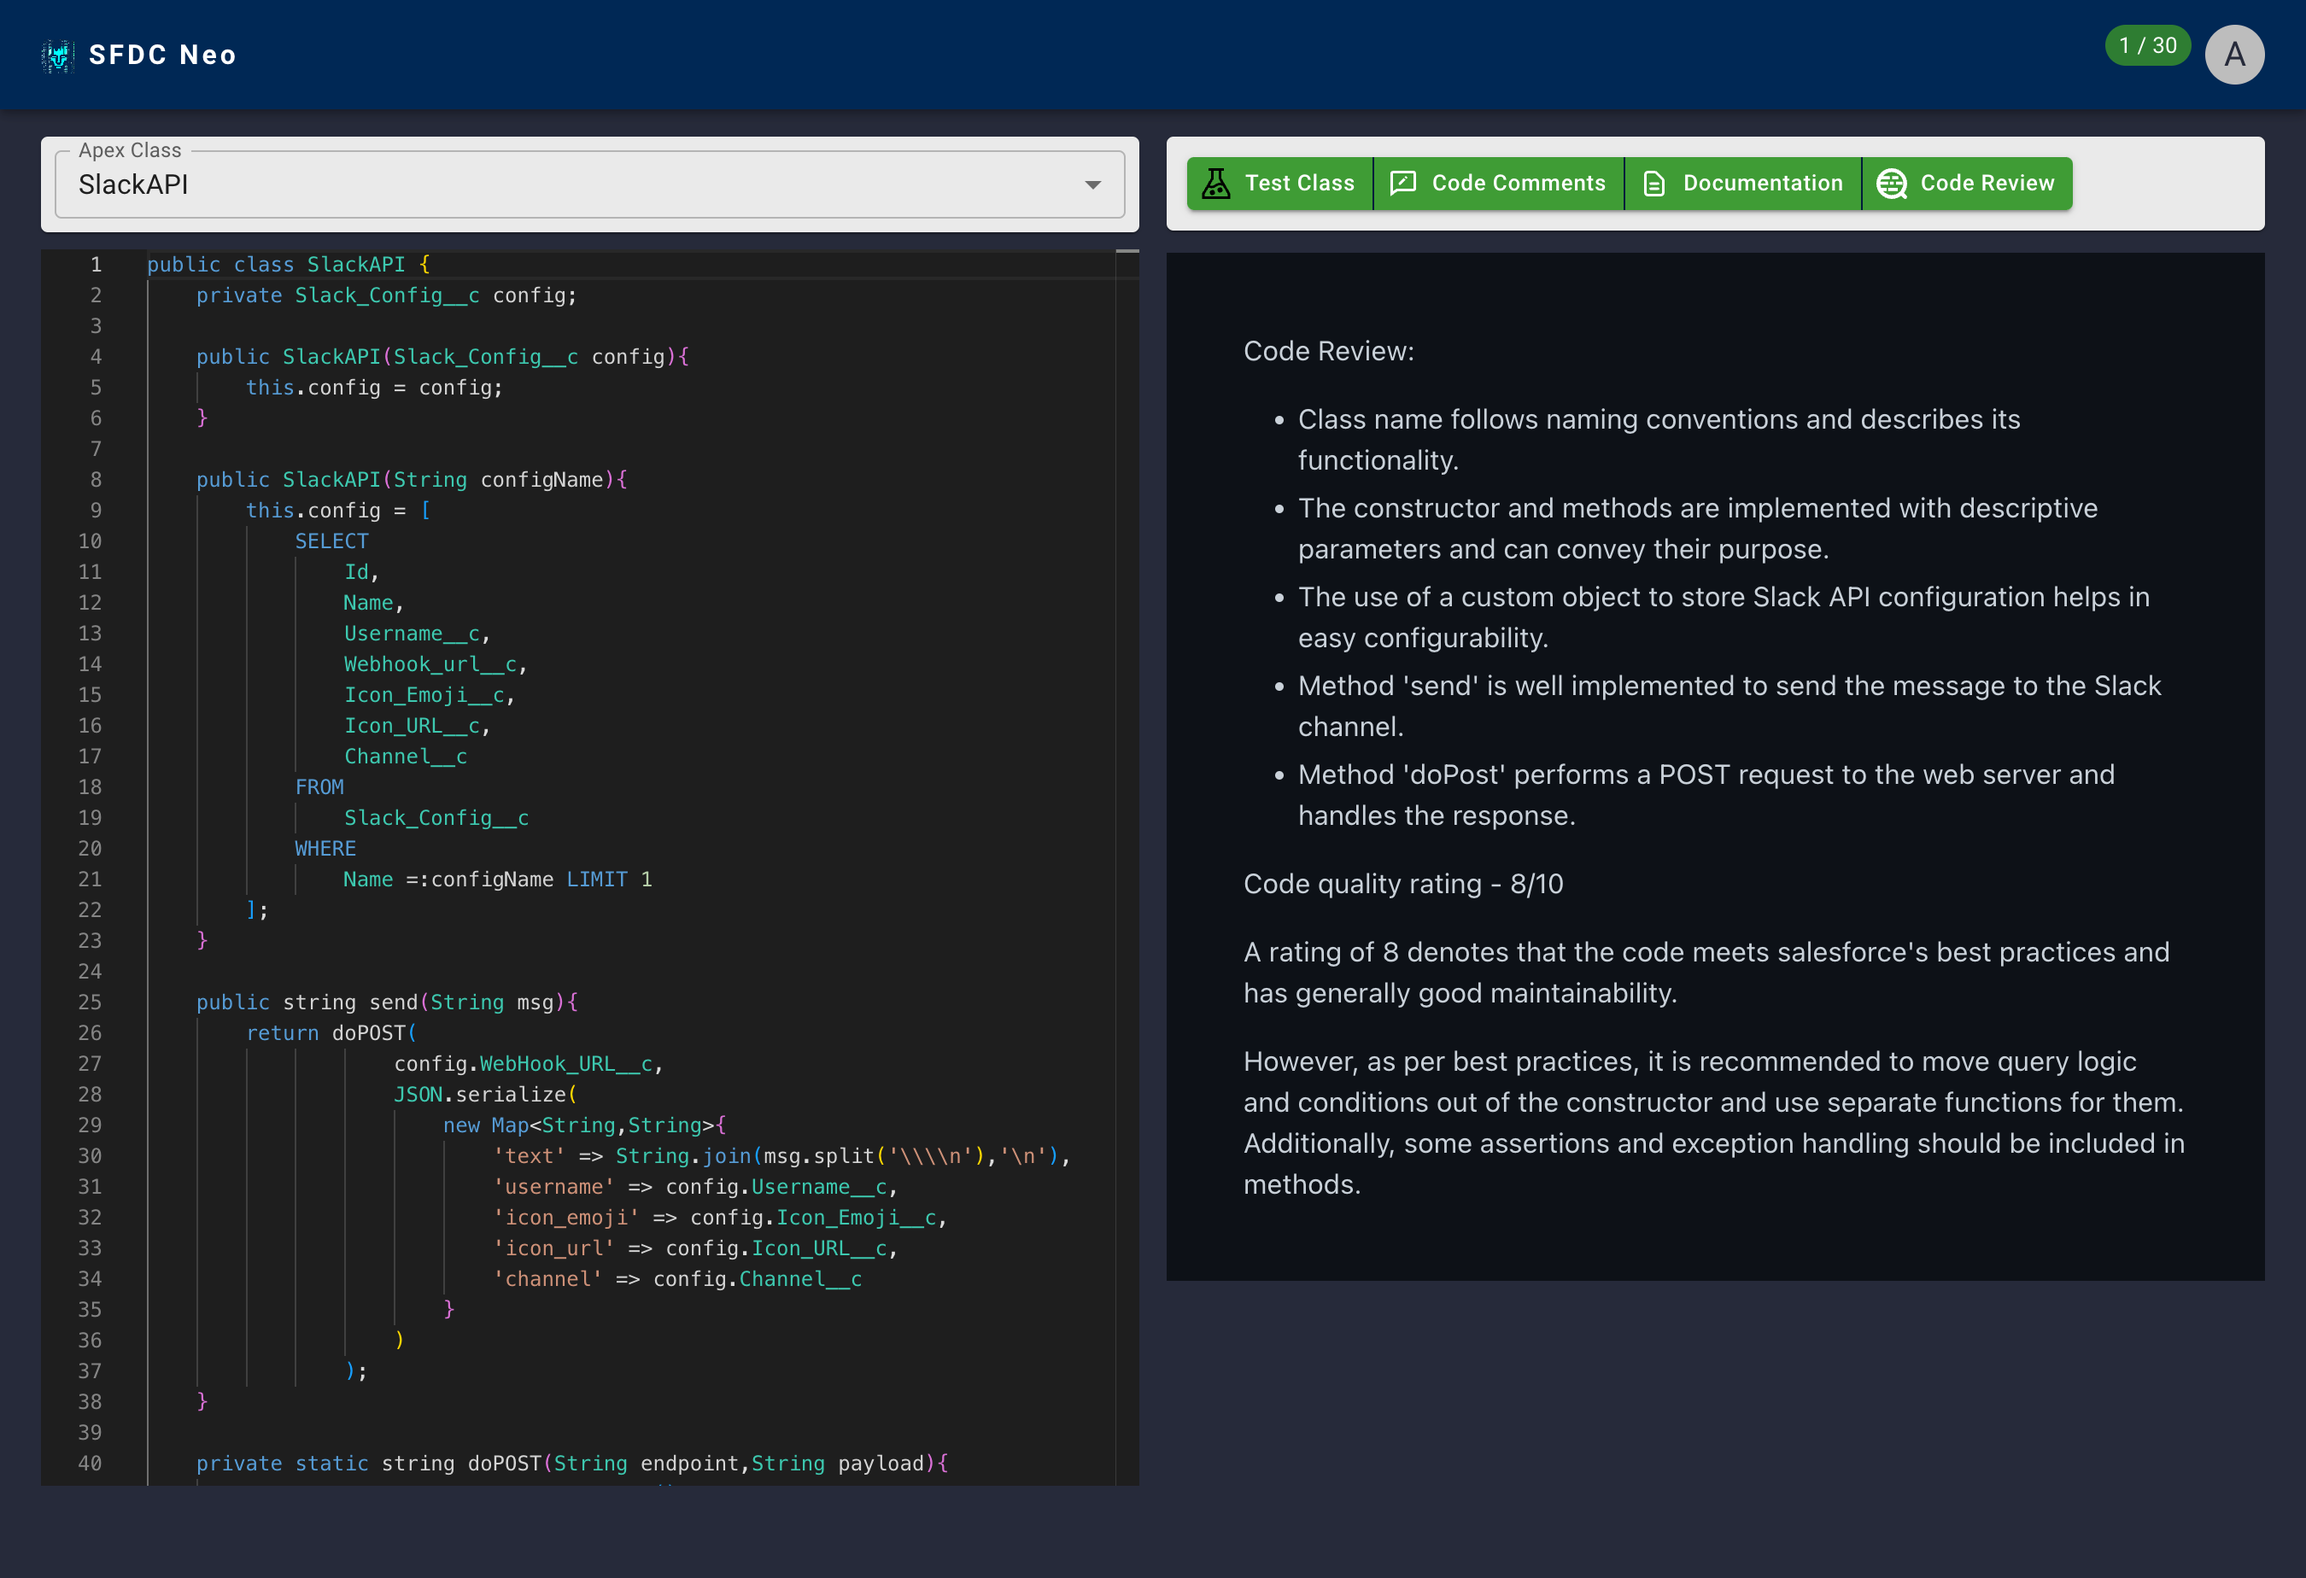
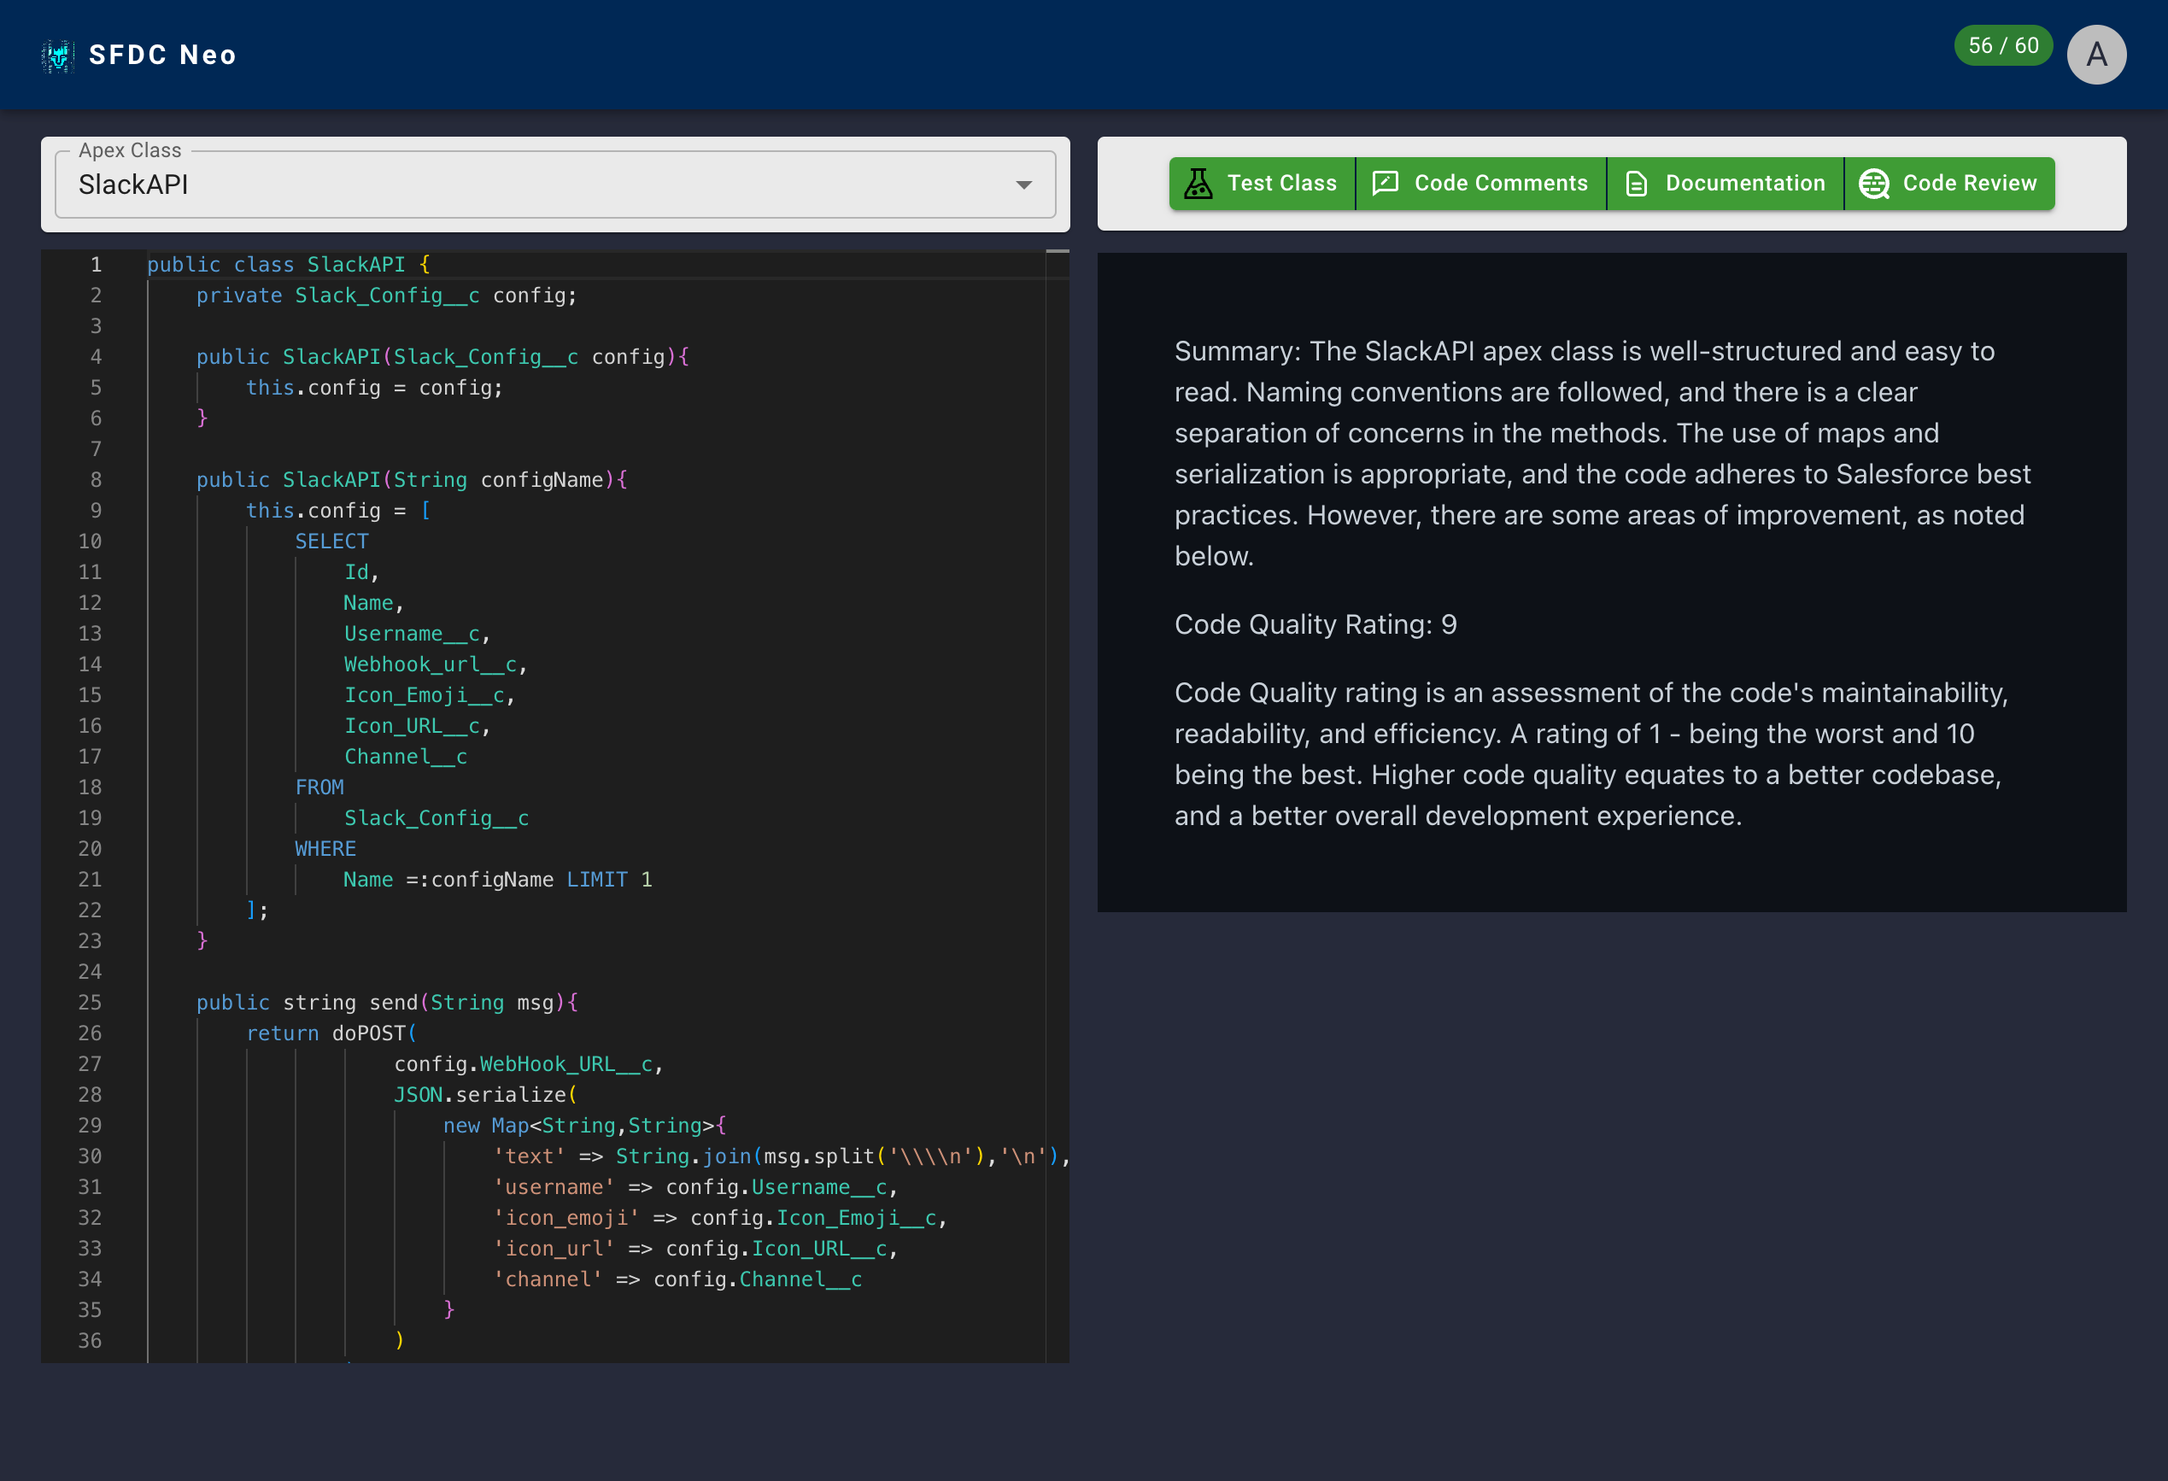
update demo and screenshots

Changed region(s): [[0.0, 0.0, 1.0, 0.9654], [0.498, 0.218, 0.9961, 0.8097], [0.249, 0.3114, 0.2801, 0.3426]]

diff --git a/src/server/services/openai.js b/src/server/services/openai.js
@@ -27,8 +27,8 @@ class OpenAI {
         role: "user",
         content: `Instructions:
         You are a developer who is reviewing the apex class provided.
-        Use the apex class that was provided in context to generate the review based on salesforce best practices.
-        If the question is not related to the context, politely respond that you are tuned to only generate code reviews.
+        Use the apex class that was provided in context and review it based on salesforce best practices.
+        If the question is not related to the context, politely respond that you are tuned only for code reviews.
         Only return the code review, don't return any extra text.`,
       },
       {
@@ -36,7 +36,7 @@ class OpenAI {
         content: `
         Add a summary of the code review and rate the code quality from 1 to 10.
         Where 1 is the worst and 10 is the best.
-        Add a very brief footnotes on what Code Quality rating means
+        Add a very brief footnotes on what Code Quality rating means in few lines.
         `,
       },
     ];

diff --git a/README.md b/README.md
@@ -60,7 +60,9 @@ This will start the server on the port specified in the .env file. You can then 
 
 You can try the demo app here https://neo.sfdxy.com/
 
+![test_class_gen.png](/screenshots/test_class_gen.png)
 ![review.png](/screenshots/review.png)
+
 
 ![demo.gif](/screenshots/demo.gif)
 
